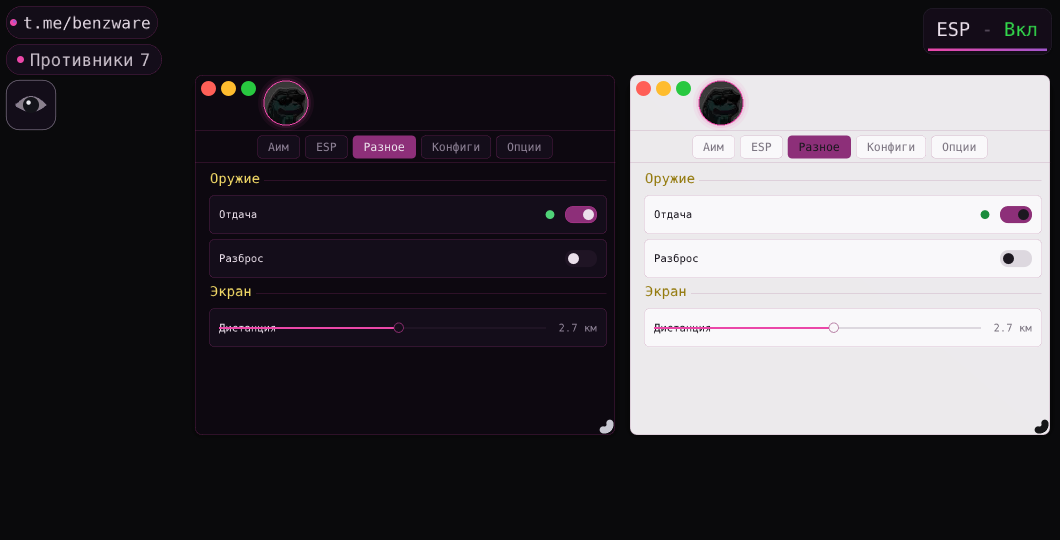
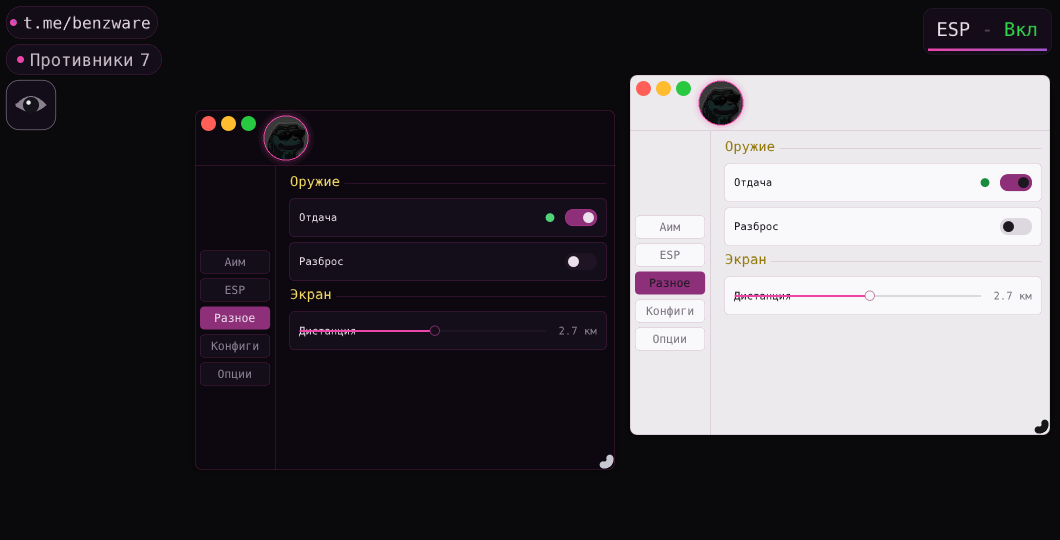
Вкладки — колонка слева; починка отрыва вкладок от окна
БАГ: пилюли вкладок рисовались на foreground-списке в относительных
координатах (tabY от верха окна уходит в экранные вызовы без wp.y) —
если окно стояло не у верха экрана, вкладки уезжали к верху ЭКРАНА,
отдельно от GUI. Все координаты колонки теперь считаются от wp
(позиция окна): окно таскается — вкладки едут вместе с ним.

Раскладка по просьбе игрока: вкладки больше не строка под шапкой, а
вертикальная колонка у левого края окна, под шапкой. Компактные
скруглённые текстовые таблетки (как в референсе): активная — заливка
тёмным акцентом, неактивные — карточки Card с окантовкой Hair, подписи
Txt/Dim, без иконок. Колонка центрируется по высоте полосы под шапкой,
ширина = самая широкая подпись + поля; пружинная пилюля скользит по
вертикали. Контент занимает площадь справа от колонки (от railW до
WW), затухание при смене вкладки и скролл — только по контенту.
Между колонкой и контентом — вертикальная линия-разделитель.

Layout::TabBarH (высота бывшей строки) больше не нужен и убран.

Превью preview_tabs.png: окна на разной высоте — колонка обязана
ехать вместе со своим окном (42/42 пиксель-проверок).

diff --git a/jni/src/menu.cpp b/jni/src/menu.cpp
@@ -2010,7 +2010,7 @@ void RenderMenu() {
     SpringTick(g_state.tab_slide, g_state.tab_slide_vel, 0.f, dt);
 
     // Короткие и понятные названия вкладок (индекс = id вкладки) — общий список.
-    // Подпись вкладки берётся на текущем языке: и в строке вкладок, и в
+    // Подпись вкладки берётся на текущем языке: и в колонке вкладок, и в
     // расчёте ширины вкладки.
     auto tabNames = [](int k) { return TabTitle(k); };
     // Вкладка «Меню» (id 0) удалена: её функционал переехал в «Опции».
@@ -2058,91 +2058,94 @@ void RenderMenu() {
         cdl->AddCircleFilled({avCx, avCy}, avR +  6.f, C::UA(C::Acc(), 0.10f), 48);
         VidAvatar::Draw(cdl, avCx, avCy, avR, dt, C::U(C::Acc()), C::U(C::Bg()));
 
-        // Неоновая линия под шапкой отделяет её от строки вкладок.
+        // Неоновая линия под шапкой отделяет её от колонки вкладок и контента.
         cdl->AddLine({hp.x, hp.y + hH - 1.f}, {hp.x + WW, hp.y + hH - 1.f}, C::U(C::Hair()), 1.f);
         ImGui::Dummy({WW, hH});
     }
 
-    // Строка вкладок под шапкой — как в референсе (CheatMenu.cpp): компактные
-    // скруглённые таблетки только с текстом, без иконок. Активная залита
-    // тёмным акцентом, неактивные — карточки с окантовкой; под строкой —
-    // линия-разделитель, как подчёркивание BeginTabBar в референсе.
-    const float tabStripH = Layout::TabBarH;
+    // Колонка вкладок слева — под шапкой, у левого края окна (просьба
+    // игрока). Компактные скруглённые текстовые таблетки, как в референсе
+    // (CheatMenu.cpp): активная залита тёмным акцентом, неактивные —
+    // карточки с окантовкой, без иконок. Колонка центрируется по высоте
+    // полосы под шапкой; справа её от контента отделяет вертикальная линия.
+    //
+    // ВАЖНО (починка бага, из-за которого вкладки «отрывались» от окна):
+    // колонка рисуется на foreground-списке в ЭКРАННЫХ координатах — все
+    // координаты считаются от wp (позиция окна), а не от нуля. Окно игрок
+    // таскает куда хочет — вкладки обязаны ехать вместе с ним.
+    float railW = 0.f;
     {
-        auto*  cdl = ImGui::GetWindowDrawList();
         auto*  fnT = ImGui::GetFont();
         const float tFS  = ImGui::GetFontSize() * 0.95f;
         const float pad  = 22.f;    // горизонтальные поля текста во вкладке
         const float gap  = 10.f;    // зазор между вкладками
         const float tabH = 46.f;    // высота вкладки
+        const float railIns = 10.f; // боковые поля внутри колонки
 
-        float tabWs[kTabShown];
-        float rowW = 0.f;
-        for (int s = 0; s < kTabShown; ++s) {
-            tabWs[s] = fnT->CalcTextSizeA(tFS, FLT_MAX, 0, tabNames(kTabOrder[s])).x + pad * 2.f;
-            rowW    += tabWs[s];
-        }
-        rowW += gap * (float)(kTabShown - 1);
-        const float tabX = (WW - rowW) * 0.5f;
-        const float tabY = hdrH + (tabStripH - tabH) * 0.5f;
+        float maxW = 0.f;
+        for (int s = 0; s < kTabShown; ++s)
+            maxW = ImMax(maxW, fnT->CalcTextSizeA(tFS, FLT_MAX, 0,
+                                                  tabNames(kTabOrder[s])).x + pad * 2.f);
+        railW = maxW + railIns * 2.f;
 
-        // Кнопки-невидимки по вкладкам: тап переключает вкладку с затуханием.
-        float cx0 = tabX;
+        const float colH    = tabH * kTabShown + gap * (kTabShown - 1);
+        const float startY  = hdrH + ImMax(12.f, (WH - hdrH - colH) * 0.5f);
+
+        // Кнопки-невидимки по вкладкам (вся ширина колонки — палец толще
+        // таблетки): тап переключает вкладку с затуханием.
         for (int s = 0; s < kTabShown; ++s) {
-            const int i = kTabOrder[s];   // id вкладки в этой позиции строки
-            ImGui::SetCursorPos({cx0, tabY});
+            const int i = kTabOrder[s];   // id вкладки в этой позиции колонки
+            ImGui::SetCursorPos({0.f, startY + s * (tabH + gap)});
             auto pos2 = ImGui::GetCursorScreenPos();
-            tab_rects[i] = {pos2.x};
+            tab_rects[i] = {pos2.y};      // колонка: храним Y ячейки
             char tabId[16];
             snprintf(tabId, sizeof(tabId), "##tab%d", i);
-            ImGui::InvisibleButton(tabId, {tabWs[s], tabH});
+            ImGui::InvisibleButton(tabId, {railW, tabH});
             TabTap(i);
-            cx0 += tabWs[s] + gap;
         }
 
-        // Пружинная «пилюля» активной вкладки скользит по горизонтали.
-        int curS = 0;
-        for (int s = 0; s < kTabShown; ++s)
-            if (kTabOrder[s] == g_state.cur_tab) curS = s;
+        // Пружинная «пилюля» активной вкладки скользит по вертикали.
         {
-            float targetRelX = tab_rects[g_state.cur_tab].sx - wp.x;
-            if (pill_y < 0.f) { pill_y = targetRelX; pill_vel = 0.f; }
-            SpringTick(pill_y, pill_vel, targetRelX, dt);
+            float targetRelY = tab_rects[g_state.cur_tab].sx - wp.y;
+            if (pill_y < 0.f) { pill_y = targetRelY; pill_vel = 0.f; }
+            SpringTick(pill_y, pill_vel, targetRelY, dt);
         }
-        const float pillX = wp.x + pill_y;
+        const float pillY = wp.y + pill_y;
 
         auto* fdl = ImGui::GetForegroundDrawList();
+        const float tx0 = wp.x + railIns, tx1 = wp.x + railW - railIns;
         // Неактивные вкладки: карточка + тонкая окантовка (если разделители
         // включены в «Опциях»).
         for (int s = 0; s < kTabShown; ++s) {
             const int i = kTabOrder[s];
             if (i == g_state.cur_tab) continue;
-            const float x0 = tab_rects[i].sx, x1 = x0 + tabWs[s];
-            fdl->AddRectFilled({x0, tabY}, {x1, tabY + tabH}, C::U(C::Card()), R::Btn);
+            const float y0 = tab_rects[i].sx;
+            fdl->AddRectFilled({tx0, y0}, {tx1, y0 + tabH}, C::U(C::Card()), R::Btn);
             if (g_state.ui_show_sep)
-                fdl->AddRect({x0, tabY}, {x1, tabY + tabH}, C::U(C::Hair()), R::Btn, 0, 1.f);
+                fdl->AddRect({tx0, y0}, {tx1, y0 + tabH}, C::U(C::Hair()), R::Btn, 0, 1.f);
         }
         // Активная — сплошная заливка тёмным акцентом (TabActive в референсе).
-        fdl->AddRectFilled({pillX, tabY}, {pillX + tabWs[curS], tabY + tabH},
-                           C::U(C::AccDk()), R::Btn);
+        fdl->AddRectFilled({tx0, pillY}, {tx1, pillY + tabH}, C::U(C::AccDk()), R::Btn);
         // Подписи: активная — ярким текстом, прочие — приглушённым.
         for (int s = 0; s < kTabShown; ++s) {
             const int  i   = kTabOrder[s];
             const bool act = (i == g_state.cur_tab);
             const auto lsz = fnT->CalcTextSizeA(tFS, FLT_MAX, 0, tabNames(i));
             fdl->AddText(fnT, tFS,
-                {tab_rects[i].sx + (tabWs[s] - lsz.x) * 0.5f, tabY + (tabH - lsz.y) * 0.5f},
+                {tx0 + ((tx1 - tx0) - lsz.x) * 0.5f,
+                 tab_rects[i].sx + (tabH - lsz.y) * 0.5f},
                 C::U(act ? C::Txt() : C::Dim()), tabNames(i));
         }
-        // Линия под строкой вкладок — как подчёркивание BeginTabBar.
-        cdl->AddLine({wp.x, wp.y + hdrH + tabStripH - 1.f},
-                     {wp.x + WW, wp.y + hdrH + tabStripH - 1.f}, C::U(C::Hair()), 1.f);
+        // Вертикальная линия-разделитель между колонкой и контентом.
+        auto* cdl = ImGui::GetWindowDrawList();
+        cdl->AddLine({wp.x + railW, wp.y + hdrH}, {wp.x + railW, wp.y + WH - 1.f},
+                     C::U(C::Hair()), 1.f);
     }
 
     {
-        const float areaH = WH - hdrH - tabStripH;
-        auto cpPos  = ImGui::GetWindowPos(); cpPos.y += hdrH + tabStripH;
-        const float cpRight = cpPos.x + WW;
+        const float areaH = WH - hdrH;
+        auto cpPos  = ImGui::GetWindowPos(); cpPos.y += hdrH; cpPos.x += railW;
+        const float cpRight = wp.x + WW;
 
         bool sheetBlocking = g_sheet.visible || (g_pop.visible && !g_pop.closing);
         static float s_maxScroll = 0.f;
@@ -2159,11 +2162,11 @@ void RenderMenu() {
         cdl->PushClipRect(cpPos, {cpRight, cpPos.y + areaH - 4.f}, true);
 
         float slideOffset = g_state.tab_slide;
-        ImGui::SetCursorPosY(hdrH + tabStripH - g_scrollMain.off + slideOffset);
-        ImGui::SetCursorPosX(12.f);
+        ImGui::SetCursorPosY(hdrH - g_scrollMain.off + slideOffset);
+        ImGui::SetCursorPosX(railW + 12.f);
 
         if (sheetBlocking) ImGui::BeginDisabled(true);
-        float contentH = TabContent(g_state.cur_tab, dt, WW);
+        float contentH = TabContent(g_state.cur_tab, dt, WW - railW - 12.f);
         if (sheetBlocking) ImGui::EndDisabled();
 
         if (g_state.tab_alpha < 0.999f) {

diff --git a/jni/include/theme.h b/jni/include/theme.h
@@ -123,8 +123,6 @@ namespace Layout {
     // Левая панель вкладок: вертикальный столбец по центру.
     static constexpr float RailW     = 128.f;
     static constexpr float TabHV     = 108.f;
-    // Строка вкладок под шапкой окна (единая раскладка, как в референсе).
-    static constexpr float TabBarH   = 64.f;
 }
 
 void ApplyTheme();
